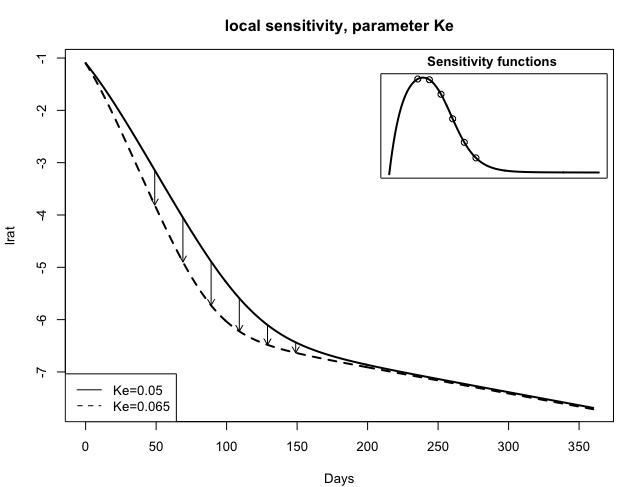
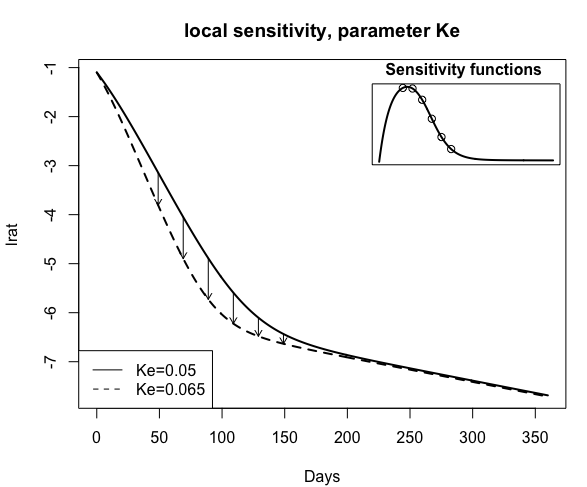
Ac0 issue even when both decay rates are fixed

Changed region(s): [[0.0613, 0.0308, 0.9813, 0.924], [0.5213, 0.9548, 0.5826, 1.0], [0.0, 0.462, 0.0307, 0.5236]]

diff --git a/CML/michor05/identifiability/README.md b/CML/michor05/identifiability/README.md
@@ -1,7 +1,9 @@
 #  FME Identifiability Analysis 
 The goal here is to see how well parameters can be recovered from bi-exponential model simulations. 
 
-First we show that log(BCRABL/BCR) yields a flat variance-mean relationship, consistent with normality.   
+First we need to examine the log(BCRABL/BCR) variance-mean relationship 
+to see if it is roughly flat, consistent with normality.
+
 ```
 rm(list=ls())
 library(tidyverse)
@@ -9,10 +11,10 @@ library(myelo)
 library(lme4)
 head(d<-michor)
 names(d)=c("TIME","DV","ID")  #change names to NONMEM style
-head(d<-d%>%mutate(LNDV=log(DV)))
+head(d<-d%>%mutate(DV=DV/100,DV=ifelse(DV>0.99,0.99,DV),LNDV=log(DV)))
 (startvec <- c(lA = log(0.995), alpha = -0.05, lB=log(0.005), beta = -0.005))
-nform <- ~ log(exp(lA+alpha*input) + exp(lB+beta*input))
-nfun <- deriv(nform, namevec=c("lA", "alpha", "lB", "beta"),
+nform=~log((exp(lA+alpha*input)+exp(lB+beta*input))/(2+exp(lA+alpha*input)+exp(lB+beta*input)))
+nfun=deriv(nform, namevec=c("lA", "alpha", "lB", "beta"),
               function.arg=c("input","lA", "alpha", "lB", "beta"))
 (M<-nlmer(LNDV ~ nfun(TIME, lA, alpha, lB, beta) ~ (lA|ID) + (alpha|ID) +(lB|ID) + (beta|ID),
           data=d,start = startvec,
@@ -20,23 +22,36 @@ nfun <- deriv(nform, namevec=c("lA", "alpha", "lB", "beta"),
           control = nlmerControl(tolPwrss = 1e-4)) )
 head(d<-d%>%mutate(EY=predict(M),res=LNDV-EY,var=res^2,sd=sqrt(var)))
 d%>%ggplot(aes(x=TIME,y=LNDV))+facet_wrap(ID~.,ncol=4)+geom_point(size=1)+geom_line(aes(y=EY)) 
-# ggsave("outs/nlmerFits.pdf",width=6,height=30) #same as in myelo/CML/michor05/alphaBeta 
-d%>%ggplot(aes(x=EY,y=var))+geom_point() #+scale_y_log10() #no trend, so log(Y) makes it normal
-ggsave("outs/nlmerResids.png",width=6,height=30)
-sqrt(mean(d$var)) # sd=0.6
+ggsave("outs/ratFits68.png",width=6,height=30)  
 ```
-![](outs/nlmerResids.png)
+![](outs/ratFits68.png)
+
+In contrast to the lme4 fits in the adjacent folder alphaBeta, here 
+percentages divided by 100 are clipped at 0.99, which via ratio=Y/(Y+2) 
+implies an upper limit on Y of ~200 CML-to-normal cells. 
+
+
+```
+d%>%ggplot(aes(x=EY,y=var))+geom_point()+scale_y_log10() # ~no trend, save near saturation
+ggsave("outs/ratVarMean.png",width=6,height=4)
+sqrt(mean(d$var)) # sd=0.43
+```
+![](outs/ratVarMean.png)
 
 
 A compiled bi-exponential ODE model is then loaded and simulated as follows (see adjacent compile folder). 
 ```
+rm(list=ls())
+library(ggplot2)
+library(myelo)
+setwd("~/soft/iqDeskTop/bi/fme") # on mac
+library(tidyverse)
 library(deSolve)
 library(FME)
 
 pars=c(Ke=0.05, Kpc=0.005,Ac0=0.995,Ap0=0.005)
-(f=file.path(system.file(paste("libs",
-    Sys.getenv("R_ARCH"),sep=""),package = "myelo"),
-    paste("myelo",.Platform$dynlib.ext,sep="")))
+(f=file.path(system.file(paste("libs",Sys.getenv("R_ARCH"),sep=""), package = "myelo"),
+             paste("myelo",.Platform$dynlib.ext,sep="")))
 dyn.load(f)
 biExp <- function (pars) {
   y0=with(as.list(pars),c(Ac=Ac0,Ap=Ap0))
@@ -49,7 +64,8 @@ biExp <- function (pars) {
 }
 
 head(D<-biExp(pars))
-head(D<-D%>%mutate(lrat=rnorm(dim(D)[1],mean=lrat,sd=0.6),sd=0.6))
+head(D<-D%>%mutate(lrat=rnorm(dim(D)[1],mean=lrat,sd=0.43),sd=0.43))
+D=D%>%mutate(lrat=ifelse(lrat> -0.01,-0.01,lrat))# if >0.99, set to it 
 
 tc=function(sz) theme_classic(base_size=sz)
 gx=xlab("Days")
@@ -145,13 +161,16 @@ plot(ident, log = "y") #collinearity.png
 This suggests fixing the slope or intercept of the beta exponential.
 
 
-Perturbing initial estimates 2-fold, we get back true values
+Perturbing initial estimates 2-fold, we get back values that resemble true values
 ```
 biCost2 <- function(lpars) #nest to insure positive
   biCost(c(exp(lpars), n = 900)) # parameters
 Pars <- pars[1:4] * 2  #double to make it work to find the opt
 Fit <- modFit(f = biCost2, p = log(Pars))
 exp(coef(Fit))
+#         Ke         Kpc         Ac0         Ap0 
+#0.049132426 0.004317588 0.926145667 0.004205642 
+
 deviance(Fit)
 
 ini   <- biExp(pars = c(Pars, n = 900))
@@ -164,10 +183,9 @@ legend("topright", c("data", "initial", "fitted"),
 ```
 ![](outs/initFitted.png)
 
-which shows how much initial estimates were away from final estimates. 
 
 
-The following MCMC code takes time to run, so we save the result. 
+The following MCMC code takes ~10 min to run, so we save the result. 
 ```    
 # MCMC <- modMCMC(f = biCost2, p = Fit$par,niter=1e5)
 # save(MCMC, file="data/mcmc.Rdata")
@@ -193,10 +211,9 @@ pairs(MCMC,nsample=1000,cex.labels=1.4,cex=0.7)
 ```
 ![](outs/pairsMCMC.png)
 
-Ac0 multimodality goes with convergence plateaus. Beta exponential slope-intercept correlation
-is strong. 
+Beta exponential slope-intercept correlation is strong. 
 
-Beta intercept burial in the alpha intercept is seen here
+Beta intercept burial below the alpha intercept is seen here
 ```
 sR=sensRange(func=biExp,parms=pars,parInput=MCMC$par)
 plot(summary(sR),xlab="time")
@@ -213,7 +230,72 @@ plot(CRL,ylab="lrat",cex=0.5,trace=TRUE)
 ```
 ![](outs/globalSens.png)
 
-we see weak dependence of lrat on Ac0. This goes with slow Ac0 convergence.
+consistent with  convergence, we see weak dependence of lrat on Ac0. 
+
+
+What if we fix the two decay rate constants. 
+```
+pars=c(Ac0=0.995,Ap0=0.005)
+(f=file.path(system.file(paste("libs",Sys.getenv("R_ARCH"),sep=""), package = "myelo"),
+             paste("myelo",.Platform$dynlib.ext,sep="")))
+dyn.load(f)
+biExp <- function (pars) {
+  y0=with(as.list(pars),c(Ac=Ac0,Ap=Ap0))
+  out=ode(y=y0,times=seq(0,360,1),func="derivsBiExp",
+          dllname = "myelo",initfunc = "parmsBiExp",
+          parms=c(Ke=0.05, Kpc=0.005),
+          nout = 1, outnames = c("ratio"))
+  D=as.data.frame(out)
+  D%>%mutate(lrat=log(ratio))
+}
+
+head(D<-biExp(pars))
+head(D<-D%>%mutate(lrat=rnorm(dim(D)[1],mean=lrat,sd=0.43),sd=0.43))
+D=D%>%mutate(lrat=ifelse(lrat> -0.01,-0.01,lrat))# if >0.99, set to it 
+head(DataLogRat<-D%>%select(time, lrat,sd))
+biCost <- function (pars) {
+  out = biExp(pars)            #picked out from out 
+  return(modCost(model = out, obs = DataLogRat, err = "sd")) #here
+}
+
+Sfun <- sensFun(biCost, pars)
+summary(Sfun)
+plot(Sfun, which = c("lrat"), xlab="time", lwd = 2,legpos="topright")
+```
+![](outs/sensTimeCrsFx2.png)
+
+
+```
+biCost2 <- function(lpars) #nest to insure positive
+  biCost(c(exp(lpars), n = 900)) #parameters
+Pars <- pars * 2  #double to make work to find opt
+Fit <- modFit(f = biCost2, p = log(Pars))
+# system.time(MCMC <- modMCMC(f = biCost2, p = Fit$par,niter=5e3)) # 10% => 30s
+# save(MCMC, file="data/mcmcFx2.Rdata")
+load("data/mcmcFx2.Rdata")
+options(width = 50)
+MCMC$pars <- exp(MCMC$pars)
+summary(MCMC)
+par(mar=c(4, 4, 3, 1) + .1)
+plot(MCMC, Full = TRUE) #convergeFx2.png #same struggle due to saturation
+pairs(MCMC,nsample=1000,cex.labels=1.4,cex=0.7)# pairsMCMCfx2.png
+sR <- sensRange(func = biExp, parms = pars, parInput = MCMC$par)
+plot(summary(sR),xlab="time",legpos="topright") #sensRangeTimeCrsFx2.png
+parRange=cbind(min=0.75*pars, max=1.25*pars)
+crlfun=function(pars) return(m=mean(biExp(pars)$lrat))
+CRL=modCRL(fun=crlfun,parRange=parRange,num=500)
+plot(CRL,ylab="lrat",cex=0.5,trace=TRUE)# globalSensFx2.png
+```
+![](outs/convergeFx2.png)
+![](outs/pairsMCMCfx2.png)
+![](outs/sensRangeTimeCrsFx2.png)
+![](outs/globalSensFx2.png)
+
+Thus, Ac0 convergence failure may be unavoidably due to Y/(Y+2).
+Running 20x more iterations does not seem to help. 
+
+![](outs/converge1e5Fx2.png)
+
 
 
 
